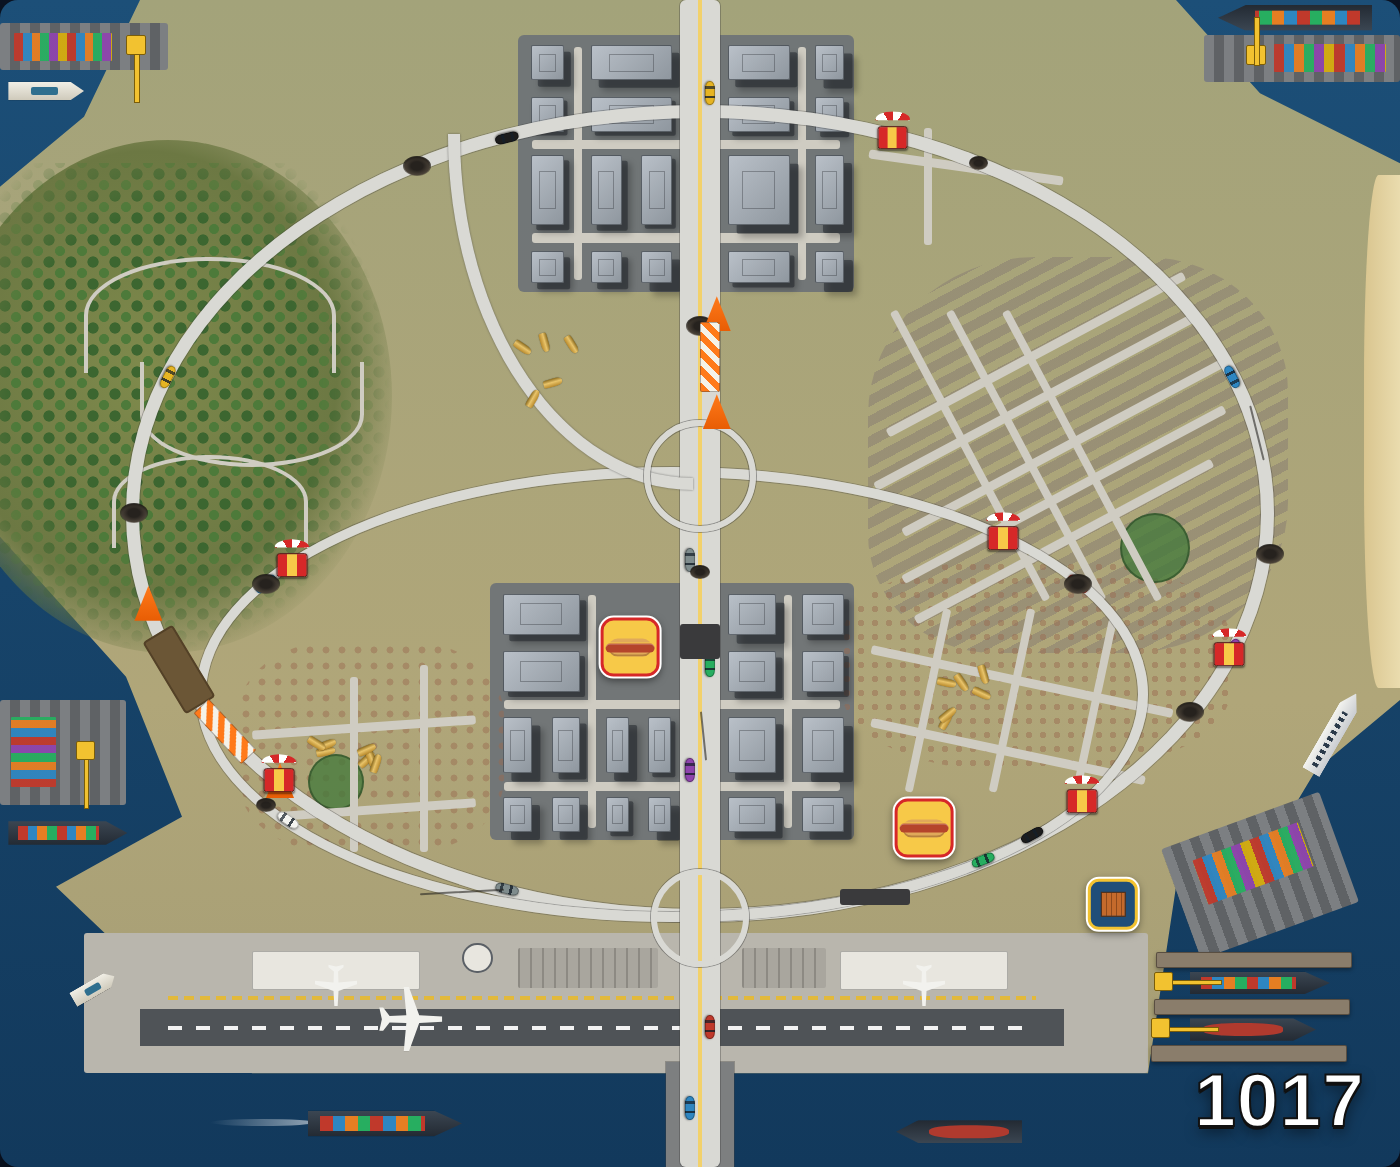
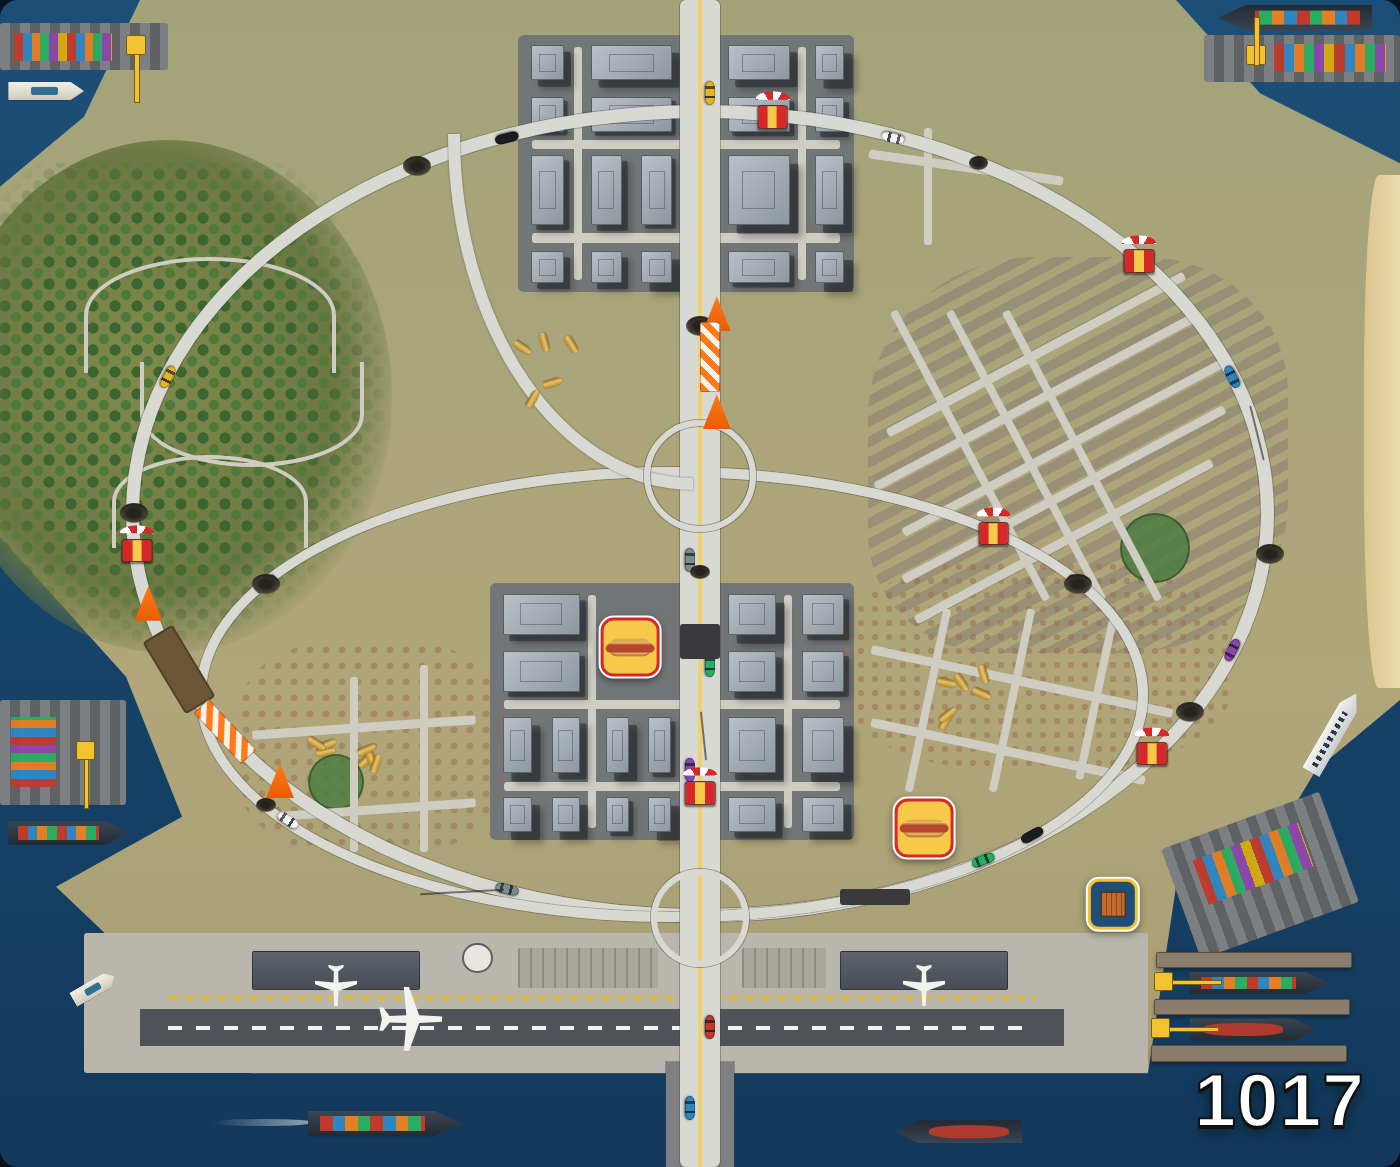
Darken the inner city's airport terminals so parked planes stand out
Claude-Session: https://claude.ai/code/session_01FagBtygwPmHUod4bPZTnD1

diff --git a/1017-inner-city.html b/1017-inner-city.html
@@ -186,8 +186,8 @@
   .runway { position: absolute; left: 10%; top: 86.5%; width: 66%; height: 3.2%; background: #4f5357; z-index: 1; }
   .runway::after { content: ""; position: absolute; left: 3%; right: 3%; top: 45%; height: 10%;
                    background: repeating-linear-gradient(90deg, #f2f2f2 0 14px, transparent 14px 28px); }
-  .terminal { position: absolute; top: 81.5%; height: 3.4%; background: #e8e6df; border-radius: 2px;
-              border: 1px solid rgba(60,60,60,.35); }
+  .terminal { position: absolute; top: 81.5%; height: 3.4%; background: linear-gradient(180deg, #5d646c, #474d54);   /* dark roof: the white planes read against it */ border-radius: 2px;
+              border: 1px solid rgba(25,28,32,.6); }
   .terminal-w { left: 18%; width: 12%; }
   .terminal-e { left: 60%; width: 12%; }
 
